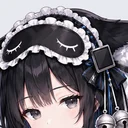
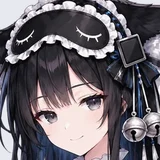
头像按脸重新裁（详情卡 / 聊天 / 结算）；选人界面重排：关系标签、一行一个技能、模式说明

diff --git a/css/style.css b/css/style.css
@@ -63,14 +63,14 @@ html, body { margin: 0; height: 100%; background: #cfe3ff; overflow: hidden; tou
 .pick img { position: absolute; left: 50%; top: 4px; width: 214px; transform: translateX(-50%); }
 .pick .pn { position: absolute; left: 0; right: 0; bottom: 0; padding: 8px 4px; background: var(--c); color: #fff; font-family: var(--title); font-size: 28px; text-align: center; white-space: nowrap; }
 .pick .pn.long { font-size: 22px; padding: 11px 2px; }
-#sel-detail { width: 520px; border-radius: 26px; background: rgba(255, 255, 255, .86); border: 4px solid #fff; position: relative; overflow: hidden;
+#sel-detail { width: 600px; border-radius: 26px; background: rgba(255, 255, 255, .86); border: 4px solid #fff; position: relative; overflow: hidden;
   box-shadow: 0 10px 30px rgba(70, 50, 140, .2); }
-.sd-portrait { position: absolute; left: -70px; top: 30px; width: 340px; height: 600px; }
-.sd-portrait img { width: 340px; filter: drop-shadow(0 8px 14px rgba(70, 50, 140, .25)); }
-.sd-info { position: absolute; right: 18px; top: 24px; bottom: 18px; width: 232px; display: flex; flex-direction: column; gap: 8px; align-items: stretch; }
+
+
+
 /* 按钮固定在面板底部，技能说明太长时在中间滚动 */
-.sd-info > * { flex: none; }
-.sd-info #sd-skills { flex: 1 1 auto; min-height: 0; overflow-y: auto; overscroll-behavior: contain; scrollbar-width: thin; }
+
+
 .sd-name { font-family: var(--title); font-size: 40px; color: var(--c, #5a4aa8); }
 .sd-title { font-size: 18px; color: var(--ink2); font-weight: 700; }
 .sd-bio { font-size: 14px; line-height: 1.45; color: var(--ink2); font-weight: 700; }
@@ -310,16 +310,16 @@ kbd { font-family: var(--sans); font-size: 13px; font-weight: 800; background: #
 #stage.portrait .sel-head { left: 16px; right: 16px; top: calc(24px + var(--dy) / 10); flex-direction: column; gap: 14px; }
 #stage.portrait .sel-head .logo.mid { font-size: 56px; }
 #stage.portrait .mode { font-size: 22px; padding: 8px 18px; }
-#stage.portrait .sel-body { left: 16px; right: 16px; top: calc(190px + var(--dy) / 10); bottom: calc(20px + var(--dy) / 10); flex-direction: column; gap: 16px; }
+#stage.portrait .sel-body { left: 16px; right: 16px; top: calc(236px + var(--dy) / 10); bottom: calc(20px + var(--dy) / 10); flex-direction: column; gap: 16px; }
 #stage.portrait #sel-grid { flex: none; gap: 10px; }
 #stage.portrait .pick { height: calc(220px + var(--dy) / 5); }
 #stage.portrait .pick img { width: calc(190px + var(--dy) / 6); }
 #stage.portrait .pick .pn { font-size: 20px; padding: 6px 2px; }
 #stage.portrait .pick .pn.long { font-size: 15px; padding: 8px 1px; }
 #stage.portrait #sel-detail { width: auto; flex: 1; }
-#stage.portrait .sd-portrait { left: -14px; top: 12px; width: 270px; }
-#stage.portrait .sd-portrait img { width: 270px; }
-#stage.portrait .sd-info { right: 18px; top: 22px; bottom: 18px; width: calc(100% - 280px); }
+
+
+
 #stage.portrait .sd-name { font-size: 52px; }
 #stage.portrait .sd-title { font-size: 22px; }
 #stage.portrait .sd-bio { font-size: 17px; }
@@ -465,3 +465,45 @@ kbd { font-family: var(--sans); font-size: 13px; font-weight: 800; background: #
 #stage.tiny #ctip { font-size: 28px; max-width: 700px; }
 #stage.tiny .skpop b { font-size: 38px; } #stage.tiny .skpop span { font-size: 24px; }
 #stage.tiny #skillbox .pchip { font-size: 24px; }
+
+/* v16b 选人界面：上面头像 + 基本信息，下面整宽技能列表，按钮在底 */
+#sel-detail { display: flex; flex-direction: column; padding: 16px 18px 14px; gap: 8px; }
+.sd-top { display: flex; gap: 14px; flex: none; }
+.sd-portrait { flex: none; width: 190px; height: 250px; border-radius: 20px; overflow: hidden; background: var(--l); border: 3px solid #fff; box-shadow: 0 4px 14px rgba(70, 50, 140, .15); }
+.sd-portrait img { width: 100%; height: auto; display: block; transform: scale(1.25); transform-origin: 50% 8%; }
+.sd-head { flex: 1; min-width: 0; display: flex; flex-direction: column; gap: 5px; }
+.sd-name { line-height: 1.05; }
+.sd-hp span { letter-spacing: 1px; }
+.sd-rels { display: flex; flex-wrap: wrap; gap: 5px; }
+.sd-rels span { font-size: 14px; font-weight: 800; background: #f3f0ff; border-radius: 10px; padding: 2px 8px 2px 2px; cursor: help; }
+.sd-rels b { color: #fff; border-radius: 8px; padding: 0 6px; margin-right: 4px; font-size: 13px; }
+.sd-rels .ally b { background: var(--good); } .sd-rels .friend b { background: #6c9cf0; } .sd-rels .rival b { background: var(--bad); }
+.sd-bio { -webkit-line-clamp: 3 !important; }
+.sd-sk-head { flex: none; font-family: var(--title); font-size: 22px; color: var(--c); margin-top: 2px; }
+.sd-sk-head small { font-family: inherit; font-size: 14px; color: #9a93bf; margin-left: 6px; }
+#sel-detail #sd-skills { flex: 1 1 auto; min-height: 0; overflow-y: auto; overscroll-behavior: contain; scrollbar-width: thin; gap: 6px; }
+.sd-skill { padding: 7px 12px; }
+.sd-skill b { font-size: 21px; }
+.sd-btns { flex: none; display: flex; gap: 10px; }
+.sd-btns #btn-back { flex: 1; } .sd-btns #btn-go { flex: 2.2; }
+/* 角色格：角上标心态、技能数 */
+.pick .pbadge { position: absolute; left: 6px; top: 6px; right: 6px; display: flex; justify-content: space-between; pointer-events: none; }
+.pick .pbadge span { font-size: 14px; font-weight: 800; color: var(--c); background: rgba(255, 255, 255, .9); border-radius: 9px; padding: 1px 7px; }
+.mode-desc { position: absolute; right: 4px; top: 76px; font-size: 16px; font-weight: 800; color: #6b5fb0; background: rgba(255, 255, 255, .72); border-radius: 12px; padding: 3px 12px; white-space: nowrap; }
+#stage.portrait .sd-portrait { width: 200px; height: 270px; }
+#stage.portrait .sd-rels span { font-size: 18px; } #stage.portrait .sd-rels b { font-size: 16px; }
+#stage.portrait .sd-sk-head { font-size: 28px; } #stage.portrait .sd-sk-head small { font-size: 18px; }
+#stage.portrait .pick .pbadge span { font-size: 15px; }
+#stage.portrait .mode-desc { position: static; font-size: 19px; white-space: normal; text-align: center; }
+
+/* 技能一行：名字 + 主动/被动 + 一句话，点开看完整说明 */
+.sd-skill .sd-row { display: flex; align-items: center; gap: 8px; }
+.sd-skill .sd-row b { flex: none; font-size: 22px; }
+.sd-skill .sd-row em { flex: none; margin-left: 0; background: #9a93bf; }
+.sd-skill .sd-row em.active { background: var(--c); }
+.sd-skill .sd-row .sd-short { flex: 1; min-width: 0; margin: 0; font-size: 16px; }
+.sd-skill .sd-row i { flex: none; font-style: normal; color: var(--c); font-size: 14px; transition: transform .15s; }
+.sd-skill.open .sd-row i { transform: rotate(180deg); }
+.sd-skill p { margin-top: 4px; }
+#stage.portrait .sd-skill .sd-row b { font-size: 26px; }
+#stage.portrait .sd-skill .sd-row .sd-short { font-size: 20px; }

diff --git a/js/main.js b/js/main.js
@@ -50,7 +50,7 @@ window.Main = (function () {
       const c = CH[k];
       const d = document.createElement("div"); d.className = "pick" + (k === pickKey ? " on" : "");
       d.style.setProperty("--c", c.color); d.style.setProperty("--l", c.light);
-      d.innerHTML = `<img src="${UI.portrait(k, "base")}" alt=""><div class="pn${c.name.length > 7 ? " long" : ""}">${c.name}</div>`;
+      d.innerHTML = `<img src="${UI.portrait(k, "base")}" alt=""><div class="pbadge"><span>❤${c.hp}</span><span>技能 ${c.skills.length}</span></div><div class="pn${c.name.length > 7 ? " long" : ""}">${c.name}</div>`;
       d.onclick = () => { pickKey = k; Sound.sfx("click", 0.5); select(); Sound.voice(k, "greet", 0); };
       grid.appendChild(d);
     }
@@ -59,12 +59,22 @@ window.Main = (function () {
     $("#sd-img").src = UI.portrait(pickKey, "smug");
     $("#sd-name").textContent = c.name; $("#sd-name").style.whiteSpace = "nowrap"; $("#sd-name").style.fontSize = c.name.length > 7 ? "36px" : ""; $("#sd-title").textContent = c.title;
     $("#sd-bio").textContent = c.bio || "";
-    $("#sd-hp").textContent = "心态 " + "❤".repeat(c.hp);
-    $("#sd-skills").innerHTML = c.skills.map((s) => `<div class="sd-skill"><b>【${s.name}】</b><em>${s.type === "active" ? "主动" : "被动"}</em><span class="sd-more">点开看详细</span><div class="sd-short">${s.short || ""}</div><p>${s.desc}</p></div>`).join("");
+    $("#sd-hp").innerHTML = `心态 <span>${"❤".repeat(c.hp)}</span>`;
+    // 人物关系：盟友 / 交好 / 宿敌各是谁（悬停看那句设定）
+    const REL = { ally: "盟友", friend: "交好", rival: "宿敌" };
+    const rels = (window.GAME_DATA.relations || []).filter(([a, b]) => a === pickKey || b === pickKey)
+      .sort((x, y) => ["ally", "friend", "rival"].indexOf(x[2]) - ["ally", "friend", "rival"].indexOf(y[2]));
+    $("#sd-rels").innerHTML = rels.map(([a, b, t, note]) => `<span class="${t}" title="${note}"><b>${REL[t]}</b>${CH[a === pickKey ? b : a].name}</span>`).join("");
+    $("#sd-skills").innerHTML = c.skills.map((s) => `<div class="sd-skill"><div class="sd-row"><b>${s.name}</b><em class="${s.type}">${s.type === "active" ? "主动" : "被动"}</em><span class="sd-short">${s.short || ""}</span><i>▾</i></div><p>${s.desc}</p></div>`).join("");
     $("#sd-skills").querySelectorAll(".sd-skill").forEach((e) => { e.onclick = () => { e.classList.toggle("open"); Sound.sfx("click", 0.4); }; });
     $("#sd-bio").classList.remove("open"); $("#sd-bio").onclick = () => $("#sd-bio").classList.toggle("open");
+    modeDesc();
     show("scr-select");
   }
+  // 模式下面一句话说清楚玩法
+  const MODE_DESC = { 2: "单挑：一对一，把她踢出群就赢。", 3: "三人乱斗：你和两个电脑，最后留在群里的人当群主。",
+    4: "2v2：座位是 你—对手—对手—队友，把对面两人都踢出群就赢。", 5: "抢群主：5 人随机身份（群主 / 管理员 / 黑粉 / 潜水党），各有各的胜利条件。" };
+  function modeDesc() { const e = $("#mode-desc"); if (e) e.textContent = MODE_DESC[players] || ""; }
 
   function start(sameOpp) {
     let opp;
@@ -138,7 +148,7 @@ window.Main = (function () {
     $("#btn-back").onclick = () => { Sound.sfx("click"); title(); };
     $("#modal-close").onclick = () => $("#modal").classList.add("hidden");
     document.querySelectorAll(".mode").forEach((b) => b.onclick = () => {
-      players = +b.dataset.mode; document.querySelectorAll(".mode").forEach((x) => x.classList.toggle("on", x === b)); Sound.sfx("click", 0.5);
+      players = +b.dataset.mode; document.querySelectorAll(".mode").forEach((x) => x.classList.toggle("on", x === b)); Sound.sfx("click", 0.5); modeDesc();
     });
     // 速度四档：工具栏点一下换档，设置面板里也能选
     const sp = $("#tb-speed");

diff --git a/index.html b/index.html
@@ -43,20 +43,24 @@
           <button class="mode" data-mode="4">2v2</button>
           <button class="mode" data-mode="5">抢群主</button>
         </div>
+        <div class="mode-desc" id="mode-desc"></div>
       </div>
       <div class="sel-body">
         <div id="sel-grid"></div>
         <div id="sel-detail">
-          <div class="sd-portrait"><img id="sd-img" alt=""></div>
-          <div class="sd-info">
-            <div class="sd-name" id="sd-name"></div>
-            <div class="sd-title" id="sd-title"></div>
-            <div class="sd-bio" id="sd-bio"></div>
-            <div class="sd-hp" id="sd-hp"></div>
-            <div id="sd-skills"></div>
-            <button class="btn primary" id="btn-go">选她出战</button>
-            <button class="btn small" id="btn-back">返回</button>
+          <div class="sd-top">
+            <div class="sd-portrait"><img id="sd-img" alt=""></div>
+            <div class="sd-head">
+              <div class="sd-name" id="sd-name"></div>
+              <div class="sd-title" id="sd-title"></div>
+              <div class="sd-hp" id="sd-hp"></div>
+              <div class="sd-rels" id="sd-rels"></div>
+              <div class="sd-bio" id="sd-bio"></div>
+            </div>
           </div>
+          <div class="sd-sk-head">技能 <small>点一下看完整说明</small></div>
+          <div id="sd-skills"></div>
+          <div class="sd-btns"><button class="btn small" id="btn-back">返回</button><button class="btn primary" id="btn-go">选她出战</button></div>
         </div>
       </div>
     </section>
